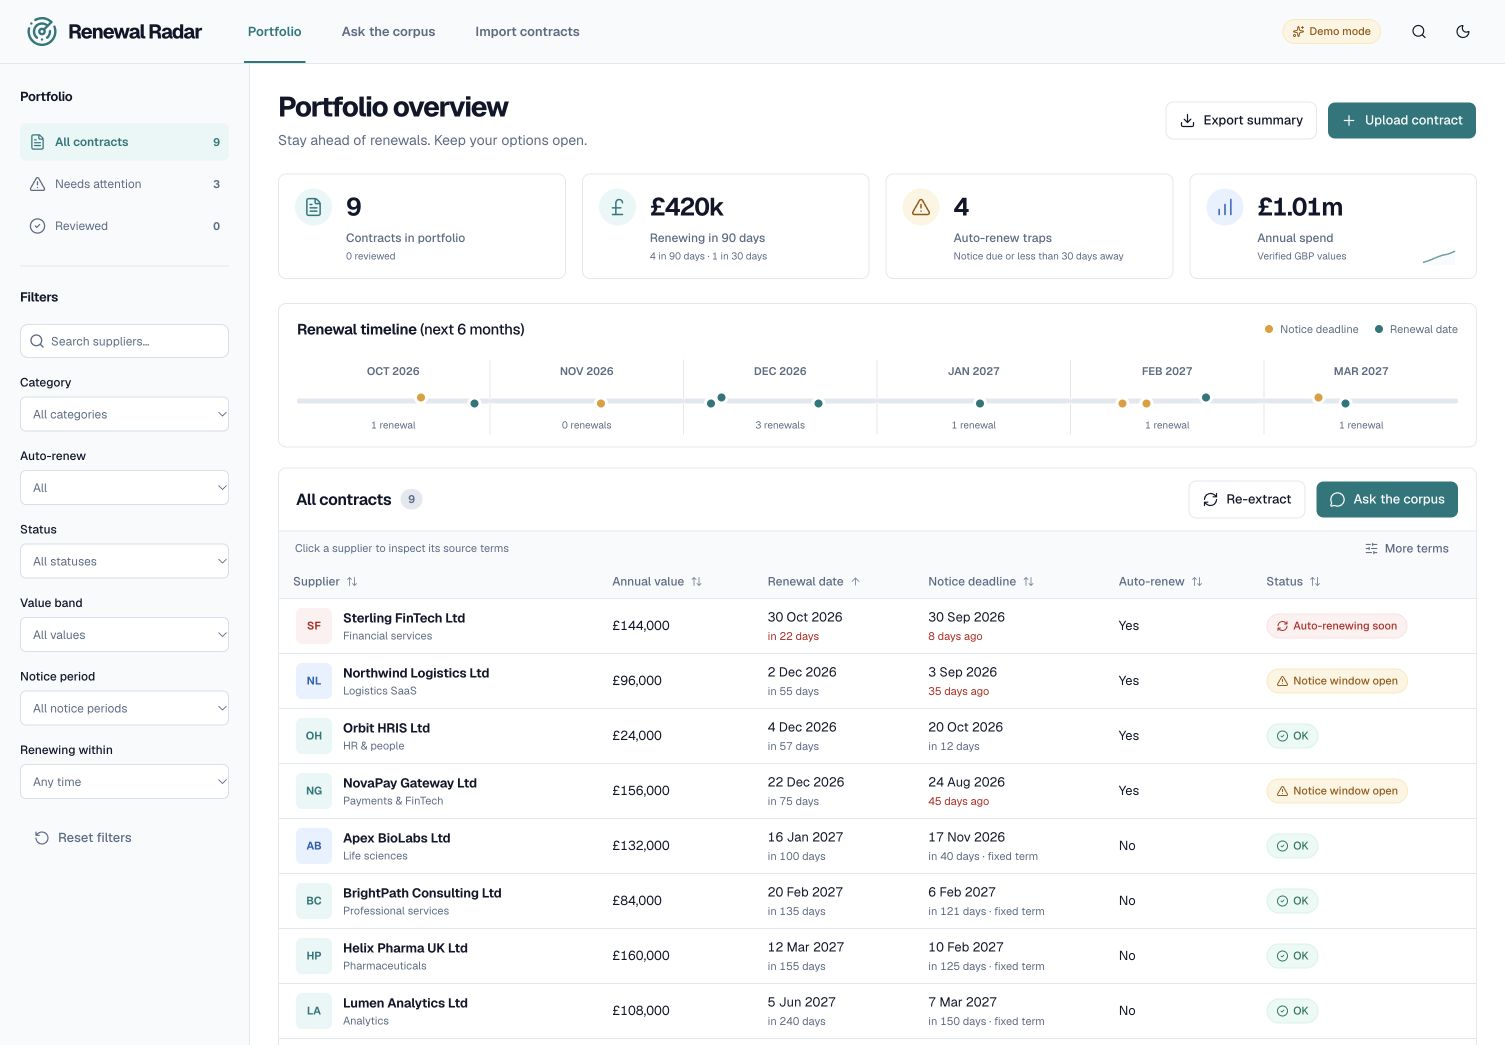
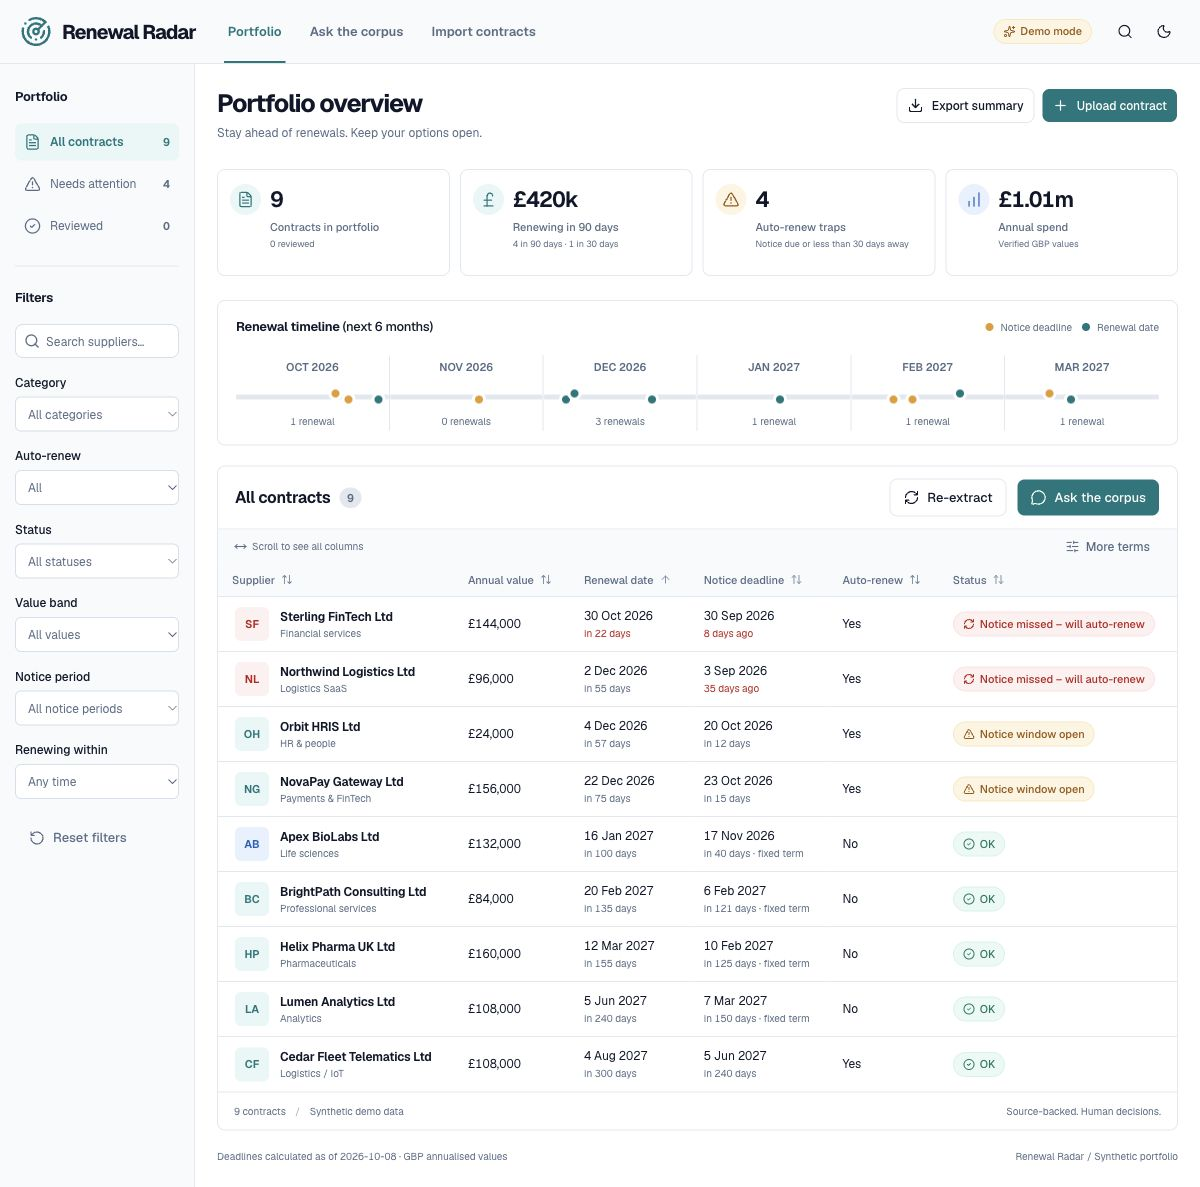
Correct renewal notice statuses and apply portfolio fixes

diff --git a/tests/core.test.ts b/tests/core.test.ts
@@ -53,28 +53,33 @@ describe('deadline engine', () => {
       noticeWindowOpensOn: '2026-09-30',
       daysToNotice: -8,
       daysToRenew: 22,
-      status: 'Auto-renewing soon',
+      status: 'Notice missed – will auto-renew',
       trap: true,
     }));
   it('gives expiry priority over imminent renewal', () =>
     expect(deadlines(endIn(-1), today).status).toBe('Expired'));
   it('keeps end date today live and urgent', () =>
-    expect(deadlines(endIn(0), today).status).toBe('Auto-renewing soon'));
-  it('includes the 30-day urgency boundary', () => {
-    expect(deadlines(endIn(30), today).status).toBe('Auto-renewing soon');
-    expect(deadlines(endIn(31, 10), today).status).toBe('OK');
+    expect(deadlines(endIn(0), today).status).toBe('Notice missed – will auto-renew'));
+  it('keeps imminent renewal subordinate to whether notice can still be served', () => {
+    expect(deadlines(endIn(22, 30), today).status).toBe('Notice missed – will auto-renew');
+    expect(deadlines(endIn(22, 10), today).status).toBe('Notice window open');
   });
-  it('opens notice status at deadline day', () => {
+  it('opens notice status from 60 days away through the deadline day', () => {
     expect(deadlines(endIn(90, 90), today).status).toBe('Notice window open');
-    expect(deadlines(endIn(91, 90), today).status).toBe('OK');
+    expect(deadlines(endIn(91, 90), today).status).toBe('Notice window open');
+    expect(deadlines(endIn(150, 90), today).status).toBe('Notice window open');
+    expect(deadlines(endIn(151, 90), today).status).toBe('OK');
+    expect(deadlines(endIn(89, 90), today).status).toBe('Notice missed – will auto-renew');
   });
   it('marks traps when the notice date is less than 30 days away', () => {
     expect(deadlines(endIn(60, 30), today).trap).toBe(false);
     expect(deadlines(endIn(59, 30), today).trap).toBe(true);
   });
-  it('does not call fixed expiries auto-renew traps', () => {
-    expect(deadlines(endIn(20, 30, false), today).status).toBe('Notice window open');
-    expect(deadlines(endIn(20, 30, false), today).trap).toBe(false);
+  it('does not call fixed expiries open or missed auto-renew notice windows', () => {
+    for (const days of [20, 30, 60, 90]) {
+      expect(deadlines(endIn(days, 30, false), today).status).toBe('OK');
+      expect(deadlines(endIn(days, 30, false), today).trap).toBe(false);
+    }
   });
   it('does not invent deadlines for missing or invalid dates', () => {
     expect(deadlines({ ...endIn(20), endDate: null }, today).status).toBe('Needs review');
@@ -91,7 +96,14 @@ describe('deadline engine', () => {
     const portfolio = await loadSeeds(date);
     const statuses = portfolio.map((c) => deadlines(c.extraction, date).status);
     expect(statuses.filter((s) => s === 'Notice window open').length).toBeGreaterThanOrEqual(2);
-    expect(statuses.filter((s) => s === 'Auto-renewing soon').length).toBeGreaterThanOrEqual(1);
+    expect(
+      statuses.filter((s) => s === 'Notice missed – will auto-renew').length,
+    ).toBeGreaterThanOrEqual(1);
+    expect(
+      portfolio.some(
+        (c) => c.extraction.autoRenew && deadlines(c.extraction, date).daysToRenew! <= 30,
+      ),
+    ).toBe(true);
   });
 });
 describe('citation verifier and schemas', () => {
@@ -195,6 +207,35 @@ describe('demo extraction and corpus answers', () => {
       noticePeriodDays: 45,
       paymentTerms: 'Net 30 days',
     });
+  });
+  it('extracts automatic renewal unless written notice is given, with verified evidence', () => {
+    const source = {
+      id: 'natural-unless',
+      name: 'natural-unless.txt',
+      text: 'SYNTHETIC DEMO DATA. Fictional company. Not real.\nSupplier: Fictional Services Ltd.\nThis Agreement renews automatically unless either party gives 60 days written notice before expiry.',
+      origin: 'upload' as const,
+    };
+    const extraction = ruleExtract(source);
+    expect(extraction).toMatchObject({ autoRenew: true, noticePeriodDays: 60 });
+    for (const field of ['autoRenew', 'noticePeriodDays']) {
+      const evidence = extraction.evidence.find((item) => item.field === field)!;
+      expect(evidence.verified).toBe(true);
+      expect(verifyQuote(evidence.quote, source.text)).toBe(true);
+    }
+  });
+  it.each([
+    'does not renew automatically',
+    'will not renew automatically',
+    'shall not automatically renew',
+  ])('preserves explicit negative renewal language: %s', (phrase) => {
+    expect(
+      ruleExtract({
+        id: 'no-renew',
+        name: 'no-renew.txt',
+        origin: 'upload',
+        text: `Supplier: Fictional Services Ltd.\nThis Agreement ${phrase}.`,
+      }).autoRenew,
+    ).toBe(false);
   });
   it.each(starterQuestions)('answers starter question with verified citations: %s', (q) => {
     const a = demoAsk(q, seeds, [], today);

diff --git a/tests/e2e/workflow.spec.ts b/tests/e2e/workflow.spec.ts
@@ -9,6 +9,15 @@ test('dashboard → filter → cited Q&A → contract → export', async ({ page
   await expect(page.getByRole('heading', { name: 'Portfolio overview' })).toBeVisible();
   await expect(page.getByText('£420k', { exact: true })).toBeVisible();
   await expect(page.locator('tbody tr')).toHaveCount(9);
+  await page.getByLabel('Status', { exact: true }).selectOption('Notice window open');
+  await expect(page.locator('tbody tr')).toHaveCount(2);
+  await expect(page.locator('tbody')).toContainText('Orbit HRIS Ltd');
+  await expect(page.locator('tbody')).toContainText('NovaPay Gateway Ltd');
+  await page.getByLabel('Status', { exact: true }).selectOption('Notice missed – will auto-renew');
+  await expect(page.locator('tbody tr')).toHaveCount(2);
+  await expect(page.locator('tbody')).toContainText('Sterling FinTech Ltd');
+  await expect(page.locator('tbody')).toContainText('Northwind Logistics Ltd');
+  await page.getByRole('button', { name: 'Reset filters' }).click();
   await page.getByLabel('Renewing within', { exact: true }).selectOption('90');
   await expect(page.locator('tbody tr')).toHaveCount(4);
   await page.getByRole('button', { name: 'Reset filters' }).click();
@@ -66,6 +75,11 @@ test('all starter questions, free text and a session follow-up', async ({ page }
     await page.getByRole('button', { name: question, exact: true }).click();
     await expect(page.locator('.thinking')).toHaveCount(0);
     await expect(page.locator('.chat-turn').last().locator('.answer-match')).not.toHaveCount(0);
+    if (question === 'Where is our liability uncapped or above £1m?') {
+      await expect(
+        page.locator('.chat-turn').last().locator('.additional-sources summary').first(),
+      ).toHaveText('1 supporting source');
+    }
   }
   await page.getByRole('textbox', { name: 'Ask a question' }).fill('What about Northwind?');
   await page.getByRole('button', { name: 'Send question' }).click();

diff --git a/lib/dates.ts b/lib/dates.ts
@@ -31,7 +31,7 @@ export function resolveRelativeDates(text: string, today = new Date()): string {
 export const statuses = [
   'OK',
   'Notice window open',
-  'Auto-renewing soon',
+  'Notice missed – will auto-renew',
   'Expired',
   'Needs review',
 ] as const;
@@ -47,8 +47,10 @@ export function deadlines(e: Extraction, today = new Date()) {
   if (daysToRenew === null || e.autoRenew === null || e.noticePeriodDays === null)
     status = 'Needs review';
   else if (daysToRenew < 0) status = 'Expired';
-  else if (e.autoRenew && daysToRenew <= 30) status = 'Auto-renewing soon';
-  else if (daysToNotice !== null && daysToNotice <= 0) status = 'Notice window open';
+  else if (e.autoRenew && daysToNotice !== null && daysToNotice < 0)
+    status = 'Notice missed – will auto-renew';
+  else if (e.autoRenew && daysToNotice !== null && daysToNotice <= 60)
+    status = 'Notice window open';
   return {
     noticeWindowOpensOn: notice ? format(notice, 'yyyy-MM-dd') : null,
     daysToNotice,

diff --git a/components/ask-panel.tsx b/components/ask-panel.tsx
@@ -174,7 +174,10 @@ export function AskPanel({
                             )}
                             {match.citations.length > 1 && (
                               <details className="additional-sources">
-                                <summary>{match.citations.length - 1} supporting sources</summary>
+                                <summary>
+                                  {match.citations.length - 1} supporting{' '}
+                                  {match.citations.length === 2 ? 'source' : 'sources'}
+                                </summary>
                                 {match.citations.slice(1).map((cite, j) => (
                                   <div className="answer-citation" key={j}>
                                     <blockquote>“{cite.quote}”</blockquote>

diff --git a/components/status.tsx b/components/status.tsx
@@ -10,7 +10,7 @@ export function StatusPill({ status }: { status: Status }) {
         ? Clock3
         : status === 'Needs review'
           ? HelpCircle
-          : status === 'Auto-renewing soon'
+          : status === 'Notice missed – will auto-renew'
             ? RefreshCw
             : AlertTriangle;
   return (
@@ -19,7 +19,7 @@ export function StatusPill({ status }: { status: Status }) {
       data-risk={
         status === 'OK'
           ? 'okay'
-          : status === 'Auto-renewing soon'
+          : status === 'Notice missed – will auto-renew'
             ? 'danger'
             : status === 'Notice window open'
               ? 'warning'

diff --git a/lib/extractor.ts b/lib/extractor.ts
@@ -65,8 +65,9 @@ export function ruleExtract(source: Source): Extraction {
     [
       /Auto[- ]renewal:\s*(Yes|No)/i,
       /(?:shall|will)\s+(not renew automatically|renew automatically)/i,
+      /\b(does not renew automatically|will not renew automatically|shall not renew automatically|does not automatically renew|will not automatically renew|shall not automatically renew|automatically renews|renews automatically|automatically renew|renew automatically)\b/i,
     ],
-    (s) => /^(yes|renew automatically)$/i.test(s),
+    (s) => /^(yes|renew automatically|renews automatically|automatically renews?)$/i.test(s),
   );
   read(
     'renewalTermMonths',

diff --git a/components/contract-table.tsx b/components/contract-table.tsx
@@ -52,7 +52,7 @@ export function ContractTable({
               <span
                 className="supplier-avatar"
                 data-tone={
-                  deadlines(c.extraction).status === 'Auto-renewing soon'
+                  deadlines(c.extraction).status === 'Notice missed – will auto-renew'
                     ? 'danger'
                     : ['Logistics SaaS', 'Life sciences'].includes(c.extraction.category ?? '')
                       ? 'blue'

diff --git a/scripts/generate-seeds.ts b/scripts/generate-seeds.ts
@@ -154,7 +154,7 @@ const seeds = [
     end: '{{TODAY+75}}',
     start: '{{START:75:12}}',
     term: 12,
-    notice: 120,
+    notice: 60,
     renew: true,
     renewTerm: 12,
     customer: '£1,500,000',

diff --git a/README.md b/README.md
@@ -4,9 +4,9 @@ Turn a folder of contracts into a renewals dashboard, verified key terms and sou
 
 ![MIT licence](https://img.shields.io/badge/licence-MIT-teal) ![Next.js](https://img.shields.io/badge/Next.js-16-black) ![TypeScript](https://img.shields.io/badge/TypeScript-strict-blue)
 
-**Live demo:** [Open Renewal Radar](https://renewal-radar-azure.vercel.app) · **Built by:** [Steve Grady](https://github.com/ZeroCool0388) · **LinkedIn:** [LinkedIn URL]
+**Live demo:** [Open Renewal Radar](https://renewal-radar-azure.vercel.app) · **Built by:** [Steve Grady](https://github.com/ZeroCool0388) · **LinkedIn:** [Steve on LinkedIn](https://www.linkedin.com/in/steve-jg)
 
-**Source:** [ZeroCool0388/02-contract-lifecycle-copilot](https://github.com/ZeroCool0388/02-contract-lifecycle-copilot)
+**Source:** [ZeroCool0388/renewal-radar](https://github.com/ZeroCool0388/renewal-radar)
 
 ![Renewal Radar dashboard](docs/dashboard.png)
 
@@ -67,6 +67,8 @@ npx playwright install chromium
 npm run test:e2e
 ```
 
+The [CI workflow](.github/workflows/ci.yml) runs lint, typechecking, unit/API tests and a production build on every push and pull request.
+
 Deploy by importing the repository into Vercel and accepting the detected Next.js settings. No database, storage service or extra Vercel configuration is needed. Leave API keys unset for the public demo. Both API routes use Node and the seeded `/data` files are explicitly included in the server bundle. The public demo is deployed as the separate `renewal-radar` project on Vercel Hobby, connected to this repository. Pushes to `main` trigger production deployments.
 
 ## Demo mode vs live mode
@@ -84,7 +86,7 @@ Without the selected provider's key, the application uses demo mode. Seeded extr
 
 With a key, an initial background extraction replaces the templates after successful live generation. Re-extract, uploads and Ask use the configured AI SDK provider and shared Zod schemas. Keys never reach the browser. Provider failures preserve the usable portfolio and offer “Continue in demo mode.” The badge reflects the currently active operation mode, and each chat turn records its own mode. Until initial live extraction succeeds, the portfolio truthfully shows Demo mode.
 
-**Verification boundary:** demo workflows have been executed locally and on the public Vercel deployment; both provider adapter paths have automated mocked-generation tests. Real authenticated OpenAI/Anthropic calls have not been run because credentials are not available. The hosted dashboard, filters, cited Q&A, source highlighting, PDF extraction and Open Graph image have been verified in Demo mode. See [verification evidence](docs/VERIFICATION.md).
+**Verification boundary:** demo workflows have been executed locally and on the public Vercel deployment; both provider adapter paths have automated mocked-generation tests. Real authenticated OpenAI/Anthropic calls have not been run because credentials are not available. The hosted dashboard, filters, cited Q&A, source highlighting, PDF extraction and Open Graph image have been verified in Demo mode.
 
 ## Architecture
 
@@ -123,13 +125,14 @@ The deadline engine uses calendar days, not millisecond division:
 - `daysToNotice` and `daysToRenew` compare calendar dates to today. Negative values mean the date has passed.
 - Missing end/notice/auto-renew terms produce **Needs review**.
 - An end date before today produces **Expired**.
-- Auto-renewal within 30 days, including today, produces **Auto-renewing soon**.
-- A last notice date today or in the past produces **Notice window open**; otherwise the status is **OK**.
+- An auto-renewing agreement whose notice deadline is **0–60 days away**, inclusive, produces **Notice window open**. There is still time to serve notice.
+- An auto-renewing agreement whose notice deadline has **passed** produces **Notice missed – will auto-renew**. This takes priority even when renewal is within 30 days.
+- Fixed-term agreements do not get either auto-renew notice status; otherwise the status is **OK**. Imminent dates still appear in the timeline and renewal-day counts.
 - An auto-renew trap has a future/current renewal and a last notice date already passed or fewer than 30 days away.
 
-Fixed-term expiries are never counted as auto-renew traps. The app cannot know whether valid notice was actually served. It prompts the reviewer to confirm this rather than declaring an automatic commitment as fact. It does not infer that a past agreement actually renewed.
+Fixed-term expiries are never counted as auto-renew traps. The missed-notice label assumes no valid notice was served; confirm delivery and any amendments with a person before acting. The app cannot observe notices or infer that a past agreement actually renewed.
 
-Northwind and NovaPay always sit beyond their last notice dates; Sterling always renews in 22 days; Orbit's notice date is 12 days away. Placeholders resolve in both the source text and extraction quotes before verification, keeping the demo fresh without inconsistent citations. Q1 means the current Q1 during January–March and the next Q1 otherwise. See [the full token convention](data/README.md).
+Northwind and Sterling always sit beyond their last notice dates; Sterling renews in 22 days. Orbit's notice deadline is 12 days away and NovaPay's is 15 days away, so both have open notice windows. Placeholders resolve in both the source text and extraction quotes before verification, keeping the demo fresh without inconsistent citations. Q1 means the current Q1 during January–March and the next Q1 otherwise. See [the full token convention](data/README.md).
 
 ## What I'd tell a customer
 

diff --git a/data/README.md b/data/README.md
@@ -16,7 +16,7 @@ Tokens are resolved when the server loads the seed corpus, before extraction val
 
 Calendar-month subtraction clamps month ends. Q1 dates roll independently: after BrightPath's February expiry but before Helix's March expiry, BrightPath moves to next year's Q1 and Helix remains in the current Q1. The Q1 answer filters the actual resolved documents, rather than promising the same supplier list all year.
 
-Northwind ends in 55 days with 90 days' notice. NovaPay ends in 75 days with 120 days' notice. Sterling ends in 22 days with 30 days' notice. These always yield two notice-window rows and one urgent auto-renew row, regardless of the demo date. Orbit's deadline is 12 days away and contributes another trap, giving four traps but three rows currently needing attention. At the initial October 2026 demo date, four agreements ending in 90 days have £420,000 annualised spend.
+Northwind ends in 55 days with 90 days' notice, and Sterling ends in 22 days with 30 days' notice. Their notice deadlines have passed, so they show **Notice missed – will auto-renew**. Orbit ends in 57 days with 45 days' notice (deadline in 12 days); NovaPay ends in 75 days with 60 days' notice (deadline in 15 days). These show **Notice window open**. The relative dates guarantee at least two open windows and one automatic renewal within 30 days on every demo day. These four contracts are traps and need attention. At the initial October 2026 demo date, four agreements ending in 90 days have £420,000 annualised spend.
 
 Uploads never resolve tokens or move dates. They are ordinary fixed-date documents. The committed five-page `03-helix-pharma-sow.pdf` is deliberately dated 2026-03-12 to 2027-03-12. It exercises real PDF text extraction, page anchors and uploads; it is not included again in the seed index.
 

diff --git a/data/contracts/09-novapay-gateway-msa.md b/data/contracts/09-novapay-gateway-msa.md
@@ -54,7 +54,7 @@ The Customer warrants that it has the right to supply Customer Materials and gra
 
 ## 8. Term and termination
 
-Notice period: 120 calendar days before the End date.
+Notice period: 60 calendar days before the End date.
 Auto-renewal: Yes. This Agreement renews automatically unless either party gives timely written notice.
 Renewal term: 12 months.
 Termination for convenience: No. Neither party may terminate solely for commercial convenience during the initial term.
